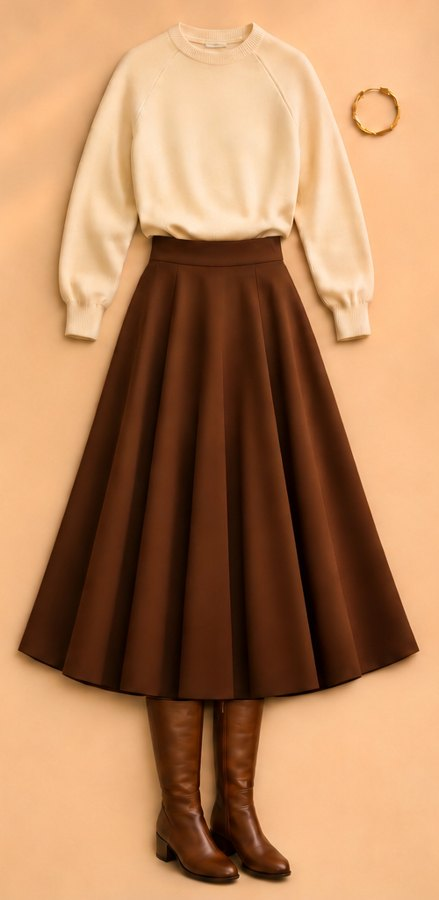
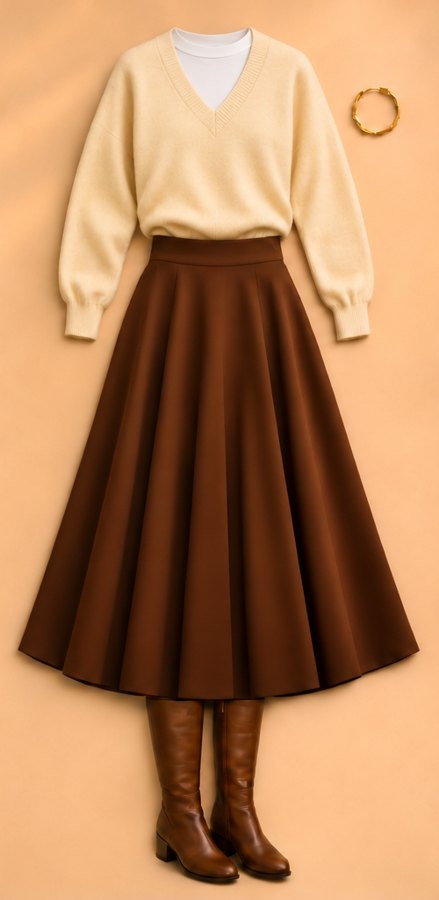
מפת הסטייל: הטבה ל־48 שעות, מעקב לחיצות, לוק V חדש

diff --git a/mapa/map.js b/mapa/map.js
@@ -128,12 +128,62 @@
     ])
   ]));
 
+  /* ---------- הזמנה להמשך, עם ההטבה ל־48 שעות ---------- */
+  var mapId = new URLSearchParams(location.search).get("t");
+  var api = (window.QUIZ && window.QUIZ.endpoint) || "";
+  function ping(what) {
+    if (!api || !mapId) return;
+    try { fetch(api + "?k=click&w=" + what + "&t=" + encodeURIComponent(mapId), { mode: "no-cors", keepalive: true }); } catch (e) {}
+  }
   var wa = "https://wa.me/" + D.whatsapp + "?text=" + encodeURIComponent(D.whatsappText);
+  var regularBtn = el("a", { class: "btn", href: wa, target: "_blank", rel: "noopener" }, [D.cta]);
+  regularBtn.addEventListener("click", function () { ping("regular"); });
+  var endBox = el("div", { class: "endbox" }, [regularBtn]);
   root.appendChild(el("section", { class: "row end" }, [
     el("p", { class: "closing", text: D.closing }),
-    el("a", { class: "btn", href: wa, target: "_blank", rel: "noopener" }, [D.cta]),
+    endBox,
     el("button", { class: "pdf", type: "button", id: "pdf" }, ["לשמור את המפה כ־PDF"])
   ]));
+
+  function offerBox(endMs, skew) {
+    var O = D.offer;
+    var clock = el("div", { class: "clock", "aria-live": "off" });
+    var detail = el("div", { class: "offer-detail", hidden: "hidden" });
+    var openBtn = el("button", { class: "btn", type: "button" }, [O.open]);
+    var waOffer = el("a", { class: "btn ghost", href: "https://wa.me/" + D.whatsapp + "?text=" + encodeURIComponent(O.whatsappText), target: "_blank", rel: "noopener" }, [O.whatsappCta]);
+    waOffer.addEventListener("click", function () { ping("whatsapp"); });
+    var actions = [];
+    if (O.calendar) {
+      var cal = el("a", { class: "btn", href: O.calendar, target: "_blank", rel: "noopener" }, [O.calendarCta]);
+      cal.addEventListener("click", function () { ping("calendar"); });
+      actions.push(cal);
+    }
+    actions.push(waOffer);
+    [el("h3", { text: O.name }), el("p", { text: O.what }),
+     el("p", { class: "price" }, [el("s", { text: O.priceWas }), " ", el("strong", { text: O.priceNow })]),
+     el("div", { class: "offer-actions" }, actions)].forEach(function (n) { detail.appendChild(n); });
+    openBtn.addEventListener("click", function () { detail.hidden = false; openBtn.hidden = true; ping("offer"); });
+    var box = el("div", { class: "offer" }, [
+      el("p", { class: "offer-title", text: D.cta }),
+      el("p", { class: "badge", text: O.badge }),
+      el("p", { class: "clock-label", text: O.timerLabel }), clock, openBtn, detail
+    ]);
+    function pad(n) { return (n < 10 ? "0" : "") + n; }
+    function tick() {
+      var left = Math.max(0, endMs - (Date.now() + skew));
+      if (!left) { endBox.replaceChildren(regularBtn); return; }
+      var s = Math.floor(left / 1000);
+      clock.textContent = pad(Math.floor(s / 3600)) + ":" + pad(Math.floor(s / 60) % 60) + ":" + pad(s % 60);
+      setTimeout(tick, 1000);
+    }
+    endBox.replaceChildren(box);
+    tick();
+  }
+  if (api && mapId && /^[0-9a-f]{32}$/.test(mapId)) {
+    fetch(api + "?o=" + mapId).then(function (r) { return r.json(); }).then(function (j) {
+      if (j && j.end && j.end > j.now) offerBox(j.end, j.now - Date.now());
+    }).catch(function () {});
+  }
   root.appendChild(el("footer", { class: "sig" }, [
     el("span", { text: "עינת רן אלקיים | סטיילינג · תדמית · מסר חזותי" }),
     el("span", { class: "site", text: "Einatran.com" })

diff --git a/mapa/map-data.js b/mapa/map-data.js
@@ -4,6 +4,21 @@ window.MAPDATA = {
   whatsapp: "972546443743",
   whatsappText: "קיבלתי את מפת הסטייל ואשמח לשלב הבא. מתי נוכל לדבר?",
   cta: "רוצה לקחת את הסטייל שלך לנקסט לבל? בואי לאבחון מקצועי",
+
+  /* ההטבה ל־48 שעות. השעון מגיע מהגיליון (סיום הטבה), לא מהדפדפן. */
+  offer: {
+    badge: "רק ל־48 השעות הקרובות: 40% הנחה",
+    timerLabel: "ההטבה מסתיימת בעוד",
+    open: "לפרטי ההטבה",
+    name: "אבחון סטייל מקצועי",
+    what: "45 דקות בזום. עוברות יחד על מבנה הגוף, הצבעים והסגנון שלך, ותוך שבוע מגיע אלייך מסמך אבחון אישי שנשאר אצלך.",
+    priceWas: "750 ש״ח",
+    priceNow: "450 ש״ח",
+    calendar: "",            // דף ההזמנה של האבחון (45 דקות). ריק = רק וואטסאפ
+    calendarCta: "לקבוע לבד ביומן",
+    whatsappCta: "לקבוע איתי בוואטסאפ",
+    whatsappText: "קיבלתי את מפת הסטייל ואשמח לממש את ההטבה של 40% לאבחון סטייל מקצועי. מתי נוכל לקבוע?"
+  },
   closing: "קחי מהמפה רעיון אחד ונסי אותו כבר השבוע, עם מה שיש לך בארון. לפעמים שינוי קטן בגזרה, בצבע או בנעל פותח עוד אפשרויות.",
 
   bodies: {
@@ -51,7 +66,7 @@ window.MAPDATA = {
         { t: "מכנסי דגמ״ח", d: "ג׳ינס עם כיסים בצדדים וחולצה פשוטה." } ],
       looksM: [
         { t: "חצאית קפלים", d: "חצאית זית עם קפלים, מכופתרת לבנה צמודה ומגף גבוה." },
-        { t: "חצאית מתרחבת", d: "חצאית חומה עם תנועה, סריג פשוט ומגף גבוה." },
+        { t: "חצאית מתרחבת", d: "חצאית חומה עם תנועה, סוודר במפתח V מעל טי־שירט לבן ומגף גבוה." },
         { t: "חצאית דגמ״ח", d: "חצאית ג׳ינס עם כיסים, טי־שירט לבן וז׳קט נייבי מחויט." } ] },
     "O": { title: "בגדים שנותנים צורה ומקום לזוז",
       text: "לפי התיאור שלך, מרכז הגוף רחב יותר מהאגן והמותן פחות מודגשת. כדאי לחפש גזרות שיושבות בנוחות בבטן, ולתת מקום לאזורים שאת אוהבת.",

diff --git a/mapa/map.css b/mapa/map.css
@@ -79,3 +79,19 @@ p { margin: 0 0 10px; }
   .pdf { display: none; }
   .btn { box-shadow: none; }
 }
+
+/* ---------- ההטבה ---------- */
+.offer { max-width: 520px; margin: 0 auto; padding: 26px 20px 24px; background: #FFFDF9; border-top: 3px solid var(--bordo); box-shadow: 0 14px 34px -18px rgba(94,15,36,.45); }
+.offer-title { font-family: "Heebo", sans-serif; font-weight: 300; color: var(--bordo); font-size: 22px; line-height: 1.35; margin: 0 0 10px; }
+.badge { display: inline-block; background: #F4E1DC; color: var(--bordo); font-weight: 700; font-size: 15.5px; padding: 6px 14px; border-radius: 20px; margin: 0 0 14px; }
+.clock-label { font-size: 14px; color: var(--soft); margin: 0; }
+.clock { font-family: "Bellefair", serif; font-size: 44px; letter-spacing: .06em; color: var(--bordo); direction: ltr; margin: 0 0 16px; line-height: 1.1; }
+.offer-detail { text-align: center; border-top: 1px solid #E3D5C3; margin-top: 6px; padding-top: 16px; }
+.offer-detail h3 { margin-top: 0; }
+.price { font-size: 18px; margin: 10px 0 16px; }
+.price s { color: var(--soft); }
+.price strong { font-family: "Bellefair", serif; font-weight: 400; font-size: 34px; color: var(--bordo); margin-right: 8px; }
+.offer-actions { display: grid; gap: 10px; }
+.btn.ghost { background: #FFFDF9; color: var(--bordo); box-shadow: 0 0 0 1.5px var(--bordo); }
+.offer-detail[hidden], .offer .btn[hidden] { display: none; }
+@media print { .offer, .endbox { display: none; } }
